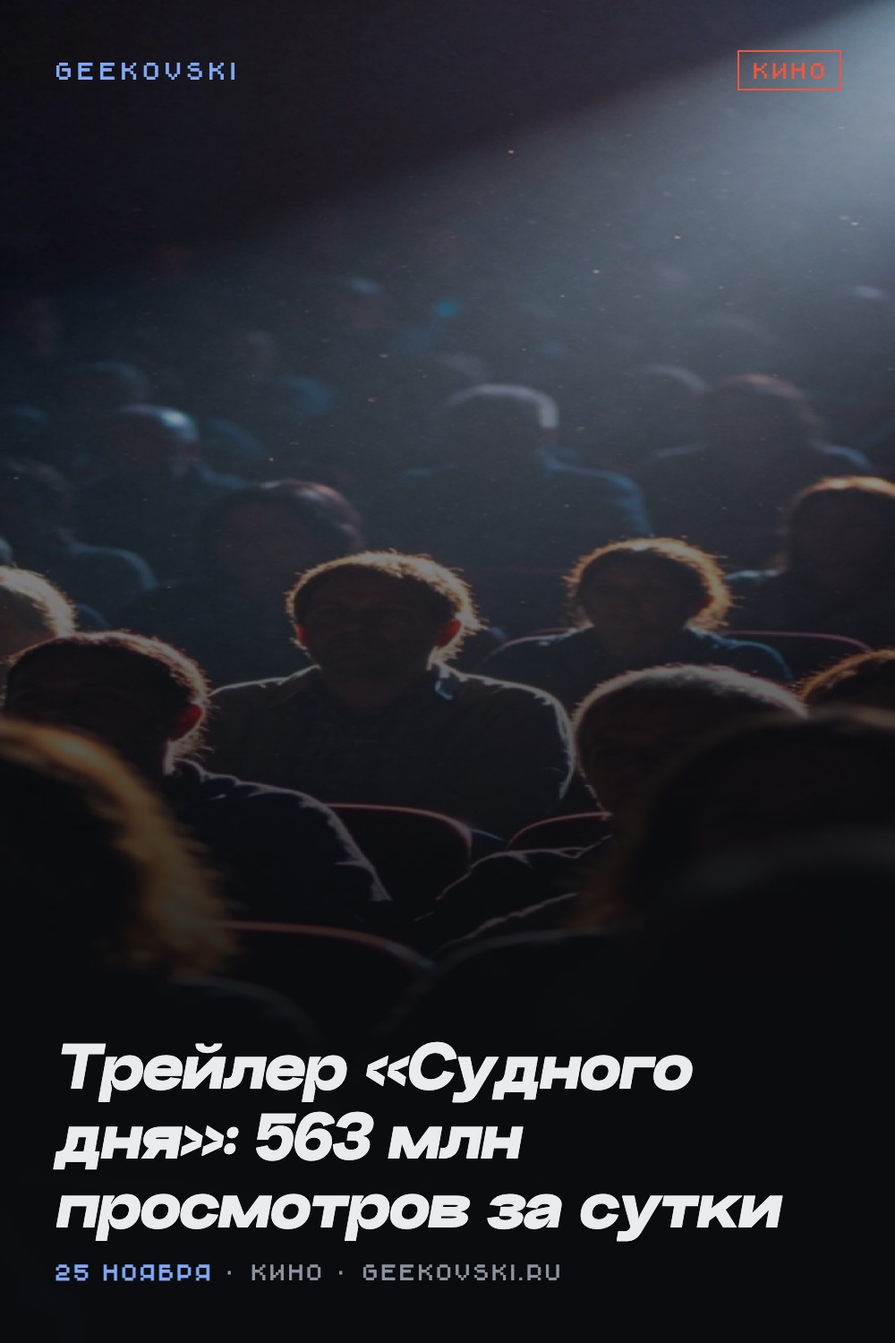
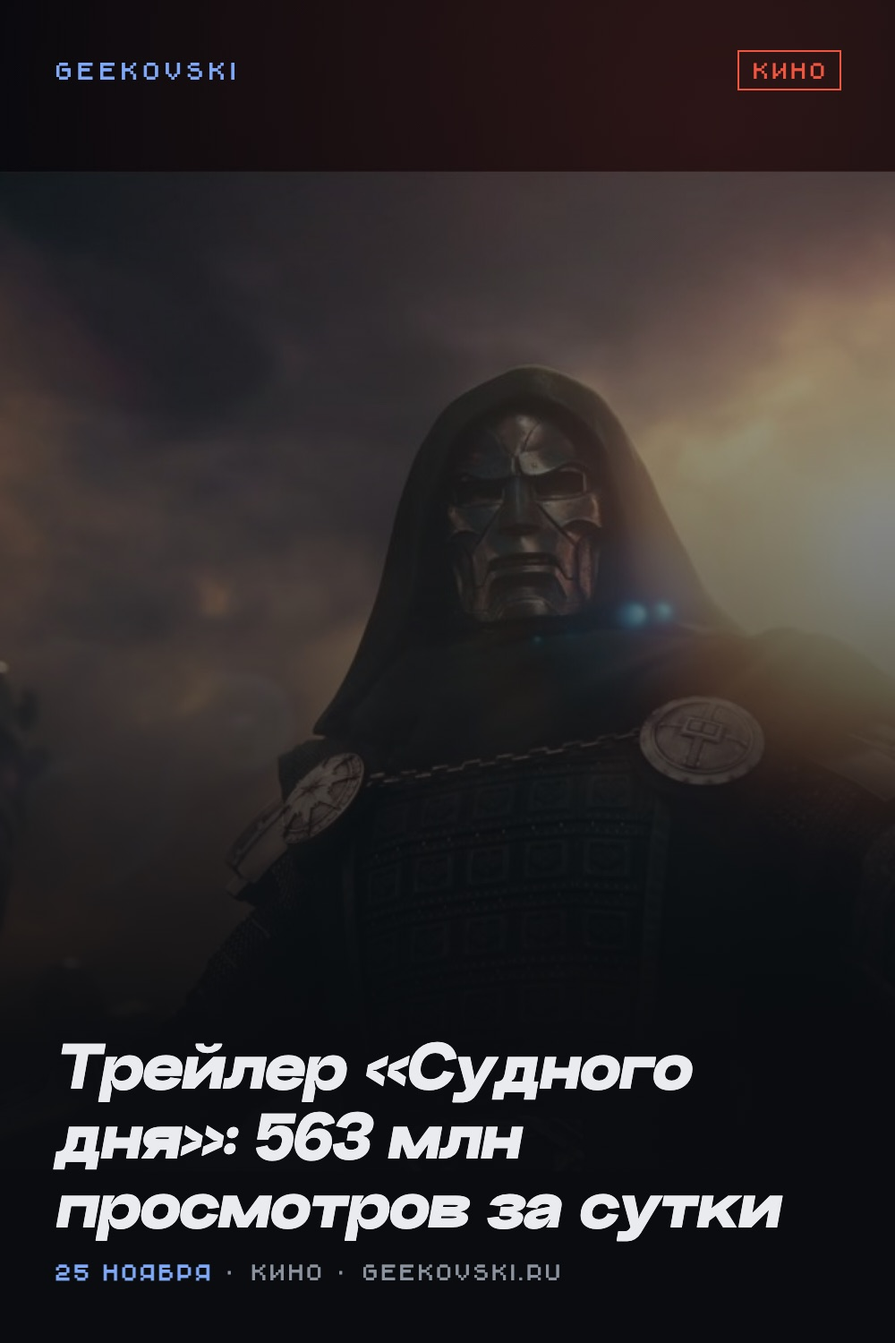
post: реальные кадры трейлера «Судного дня» вместо стоковых, новая обложка и пин

diff --git a/docs/2026-11-25-1500-sudnyj-den-trejler-rekord.html b/docs/2026-11-25-1500-sudnyj-den-trejler-rekord.html
@@ -85,7 +85,7 @@ _tmr.push({id: "3816456", type: "pageView", start: (new Date()).getTime()});
 </script>
 <noscript><div><img src="https://top-fwz1.mail.ru/counter?id=3816456;js=na" style="position:absolute;left:-9999px;" alt="Top.Mail.Ru" /></div></noscript>
 <!-- /Top.Mail.Ru counter -->
-<script type="application/ld+json">{"@context":"https://schema.org","@graph":[{"@type":"Organization","@id":"https://geekovski.ru/#organization","name":"GEEKOVSKI","url":"https://geekovski.ru/","description":"Технологии, игры и кино без маркетингового сиропа","sameAs":["https://vk.com/geekovskiread"],"logo":{"@type":"ImageObject","url":"https://geekovski.ru/assets/img/icon-512.png","width":512,"height":512}},{"@type":"WebSite","@id":"https://geekovski.ru/#website","url":"https://geekovski.ru/","name":"GEEKOVSKI","description":"Технологии, игры и кино без маркетингового сиропа","inLanguage":"ru-RU","publisher":{"@id":"https://geekovski.ru/#organization"}},{"@type":"NewsArticle","@id":"https://geekovski.ru/2026-11-25-1500-sudnyj-den-trejler-rekord.html#article","headline":"Трейлер «Судного дня»: 563 млн просмотров за сутки","description":"Финальный трейлер «Мстителей: Судного дня» за первые сутки собрал 563 млн просмотров — это рекорд Disney и второе место в истории кинотрейлеров после «Человека-паука: Совершенно новый день». Предпродажи добрались до $50 млн за три месяца до премьеры, а 18 декабря фильм выходит в один день с «Дюной: Часть 3».","datePublished":"2026-11-25T15:00:00+03:00","dateModified":"2026-11-25T15:00:00+03:00","inLanguage":"ru-RU","mainEntityOfPage":{"@type":"WebPage","@id":"https://geekovski.ru/2026-11-25-1500-sudnyj-den-trejler-rekord.html"},"author":{"@id":"https://geekovski.ru/#organization"},"publisher":{"@id":"https://geekovski.ru/#organization"},"isAccessibleForFree":true,"articleSection":"Кино","keywords":["Кино","GEEKOVSKI"],"wordCount":1193,"isPartOf":{"@id":"https://geekovski.ru/#website"},"image":[{"@type":"ImageObject","url":"https://geekovski.ru/assets/img/sudnyj-den-trejler-cover.jpg","width":1600,"height":900}],"citation":["https://deadline.com/2026/11/avengers-doomsday-final-trailer-viewership-record-1237232943/","https://www.euronews.com/2026/11/25/avengers-doomsday-final-trailer-breaks-records-to-become-second-most-viewed-of-all-time","https://cybersport.metaratings.ru/news/finalnyj-trejler-mstitelej-sudnyj-den-stal-samym-populyarnym-v-istorii-disney-674423/","https://www.thewrap.com/creative-content/movies/avengers-doomsday-presales-50-million-before-release/","https://www.thewrap.com/industry-news/box-office/avengers-doomsday-presales-first-day-infinity-vision/","https://www.boxofficepro.com/long-range-forecast-dune-part-3-aims-for-a-series-high-debut-as-it-opens-against-avengers-doomsday/","https://www.imdb.com/news/ni66127363/"],"abstract":"563 млн просмотров за 24 часа — рекорд Disney; прежний держал тизер того же фильма с 503 млн В истории кинотрейлеров выше только «Человек-паук: Совершенно новый день» — 718,6 млн за сутки Продано предпродаж на $50 млн, 70 % из них — премиум-форматы; домашний дебют прогнозируют на $340–369 млн"},{"@type":"BreadcrumbList","itemListElement":[{"@type":"ListItem","position":1,"name":"Блог","item":"https://geekovski.ru/"},{"@type":"ListItem","position":2,"name":"Категории","item":"https://geekovski.ru/categories/"},{"@type":"ListItem","position":3,"name":"Кино","item":"https://geekovski.ru/kino/"},{"@type":"ListItem","position":4,"name":"Трейлер «Судного дня»: 563 млн просмотров за сутки","item":"https://geekovski.ru/2026-11-25-1500-sudnyj-den-trejler-rekord.html"}]}]}</script>
+<script type="application/ld+json">{"@context":"https://schema.org","@graph":[{"@type":"Organization","@id":"https://geekovski.ru/#organization","name":"GEEKOVSKI","url":"https://geekovski.ru/","description":"Технологии, игры и кино без маркетингового сиропа","sameAs":["https://vk.com/geekovskiread"],"logo":{"@type":"ImageObject","url":"https://geekovski.ru/assets/img/icon-512.png","width":512,"height":512}},{"@type":"WebSite","@id":"https://geekovski.ru/#website","url":"https://geekovski.ru/","name":"GEEKOVSKI","description":"Технологии, игры и кино без маркетингового сиропа","inLanguage":"ru-RU","publisher":{"@id":"https://geekovski.ru/#organization"}},{"@type":"NewsArticle","@id":"https://geekovski.ru/2026-11-25-1500-sudnyj-den-trejler-rekord.html#article","headline":"Трейлер «Судного дня»: 563 млн просмотров за сутки","description":"Финальный трейлер «Мстителей: Судного дня» за первые сутки собрал 563 млн просмотров — это рекорд Disney и второе место в истории кинотрейлеров после «Человека-паука: Совершенно новый день». Предпродажи добрались до $50 млн за три месяца до премьеры, а 18 декабря фильм выходит в один день с «Дюной: Часть 3».","datePublished":"2026-11-25T15:00:00+03:00","dateModified":"2026-11-25T15:00:00+03:00","inLanguage":"ru-RU","mainEntityOfPage":{"@type":"WebPage","@id":"https://geekovski.ru/2026-11-25-1500-sudnyj-den-trejler-rekord.html"},"author":{"@id":"https://geekovski.ru/#organization"},"publisher":{"@id":"https://geekovski.ru/#organization"},"isAccessibleForFree":true,"articleSection":"Кино","keywords":["Кино","GEEKOVSKI"],"wordCount":1195,"isPartOf":{"@id":"https://geekovski.ru/#website"},"image":[{"@type":"ImageObject","url":"https://geekovski.ru/assets/img/sudnyj-den-trejler-cover.jpg","width":1600,"height":900}],"citation":["https://deadline.com/2026/11/avengers-doomsday-final-trailer-viewership-record-1237232943/","https://www.euronews.com/2026/11/25/avengers-doomsday-final-trailer-breaks-records-to-become-second-most-viewed-of-all-time","https://cybersport.metaratings.ru/news/finalnyj-trejler-mstitelej-sudnyj-den-stal-samym-populyarnym-v-istorii-disney-674423/","https://www.thewrap.com/creative-content/movies/avengers-doomsday-presales-50-million-before-release/","https://www.thewrap.com/industry-news/box-office/avengers-doomsday-presales-first-day-infinity-vision/","https://www.boxofficepro.com/long-range-forecast-dune-part-3-aims-for-a-series-high-debut-as-it-opens-against-avengers-doomsday/","https://www.imdb.com/news/ni66127363/"],"abstract":"563 млн просмотров за 24 часа — рекорд Disney; прежний держал тизер того же фильма с 503 млн В истории кинотрейлеров выше только «Человек-паук: Совершенно новый день» — 718,6 млн за сутки Продано предпродаж на $50 млн, 70 % из них — премиум-форматы; домашний дебют прогнозируют на $340–369 млн"},{"@type":"BreadcrumbList","itemListElement":[{"@type":"ListItem","position":1,"name":"Блог","item":"https://geekovski.ru/"},{"@type":"ListItem","position":2,"name":"Категории","item":"https://geekovski.ru/categories/"},{"@type":"ListItem","position":3,"name":"Кино","item":"https://geekovski.ru/kino/"},{"@type":"ListItem","position":4,"name":"Трейлер «Судного дня»: 563 млн просмотров за сутки","item":"https://geekovski.ru/2026-11-25-1500-sudnyj-den-trejler-rekord.html"}]}]}</script>
 
 </head>
 <body class="t-editorial">
@@ -122,7 +122,7 @@ _tmr.push({id: "3816456", type: "pageView", start: (new Date()).getTime()});
 <h2 id="section-bilety-uzhe-kupleny">Билеты уже куплены</h2>
 <p>Просмотры — вещь эфемерная, а вот предпродажи считают в долларах. О цифрах в сентябре рассказал старший вице-президент и финансовый директор Disney Хью Джонстон на конференции Goldman Sachs: за три месяца до релиза у «Судного дня» было $50 млн предпродаж. По данным источников TheWrap в Disney, за первые сутки кампании фильм собрал $16,5 млн в тысяче залов премиум-форматов, а на ScreenX первые сутки предпродаж были на 325 % выше, чем у «Человека-паука: Нового дня».</p>
 <p>Ключевая деталь: 70 % проданных билетов — премиум-форматы, помеченные меткой Infinity Vision. Это не технический стандарт, а маркетинговый ярлык, который Disney придумал специально под эту премьеру: IMAX на три недели отдан «Дюне: Часть 3» по давнему договору Warner с Дени Вильнёвом, и студии пришлось уводить фанатов в другие большие залы — Dolby, ScreenX и прочие. Судя по доле премиум-форматов в предпродажах, схема работает.</p>
-<figure class="post__fig"><img src="/assets/img/sudnyj-den-zal-imax.jpg" alt="" loading="lazy"></figure>
+<figure class="post__fig"><img src="/assets/img/sudnyj-den-kadr-shlem.jpg" alt="" loading="lazy"></figure>
 <h2 id="section-18-dekabrya-dyunsdey">18 декабря: «Дюнсдей»</h2>
 <p>Фильм выходит 18 декабря — в тот же день, что и «Дюна: Часть 3». Это не курьёз календаря, а главная интрига декабря: два блокбастера делят один уикенд и одни экраны.</p>
 <div class="table-wrap"><table><thead><tr><th style="text-align:left">Фильм (18 декабря)</th><th style="text-align:left">Прогноз домашнего дебюта</th></tr></thead><tbody><tr><td style="text-align:left">«Мстители: Судный день»</td><td style="text-align:left">$340–369 млн</td></tr><tr><td style="text-align:left">«Дюна: Часть 3»</td><td style="text-align:left">$85–100 млн</td></tr><tr><td style="text-align:left">Рекорд — «Человек-паук: Совершенно новый день» (2026)</td><td style="text-align:left">$360 млн</td></tr></tbody></table></div>
@@ -130,10 +130,10 @@ _tmr.push({id: "3816456", type: "pageView", start: (new Date()).getTime()});
 <h2 id="section-pochemu-marvel-eto-nuzhno">Почему Marvel это нужно</h2>
 <p>Последние три года у студии были неровными. «Дэдпул и Росомаха» в 2024-м собрал $1,33 млрд — рекорд для фильмов с рейтингом R. А вот «Громовержцы» и «Капитан Америка: Новый мир» недобрали, «Марвелы» провалились. Требовался фильм-событие, который вернёт доверие зала.</p>
 <p>Сначала эту роль сыграл «Человек-паук: Совершенно новый день»: $2 млрд за три недели, больше $2,4 млрд в итоге — третий результат в истории до поправки на инфляцию. На этой неделе он обойдёт «Пробуждение силы» и станет самым кассовым фильмом в истории США до инфляции. «Судный день» идёт следом и с более громкой кампанией: Дауни-младший в роли Доктора Дума, Крис Эванс снова Стив Роджерс, плюс Люди Икс и Фантастическая четвёрка в одном кадре — тот тип события, на который зритель ходит не за сюжетом, а за встречей.</p>
-<figure class="post__fig"><img src="/assets/img/sudnyj-den-premera.jpg" alt="" loading="lazy"></figure>
+<figure class="post__fig"><img src="/assets/img/sudnyj-den-kadr-geroy.jpg" alt="" loading="lazy"></figure>
 <h2 id="section-gde-podvoh">Где подвох</h2>
 <ul><li><strong>Просмотры не конвертируются в билеты автоматически.</strong> Euronews прямо оговаривается: онлайн-метрики сами по себе не определяют кассу. Сравнение с тизером «Дэдпула и Росомахи» тоже не идеальное — в те 365 млн входит телеэфир Супербоула, то есть аудитория, которая смотрела ролик не по своей воле.</li><li><strong>563 млн — это не 563 миллиона человек.</strong> Это сумма показов по платформам, где один и тот же пользователь мог посмотреть трейлер несколько раз, а часть показов пришла с аккаунтов изданий и партнёров.</li><li><strong>Экранов меньше, чем кажется.</strong> В 2019-м мультиплексы отдавали «Финалу» почти все залы. Сейчас часть IMAX занята «Дюной» на три недели, и делить прокат придётся с ней же.</li><li><strong>У кампании появился эмоциональный слой, который не считается в просмотрах.</strong> Патрик Стюарт умер 28 октября в 86 лет; «Судный день» — его последняя роль в кино и девятое появление в роли профессора Ксавье, начиная с «Людей Икс» 2000 года. Энтони Руссо рассказал Entertainment Weekly, что актёр работал на площадке, уже превозмогая проблемы со здоровьем, а Кевин Файги говорил, что студия думает, как достойно почтить память друга. Часть зрителей пойдёт в зал в том числе за этим.</li><li><strong>Российского проката нет, и дата в СНГ — не то же самое.</strong> О российской премьере не сообщалось: Disney официально не выпускает свои фильмы в России с 2022 года. По данным Cybersport, в прокат стран СНГ картина выйдет 7 января 2027 года — на три недели позже мировой премьеры.</li></ul>
-<figure class="post__fig"><img src="/assets/img/sudnyj-den-proektor.jpg" alt="" loading="lazy"></figure>
+<figure class="post__fig"><img src="/assets/img/sudnyj-den-kadr-profil.jpg" alt="" loading="lazy"></figure>
 <h2 id="section-tri-vyvoda">Три вывода</h2>
 <ol><li><strong>Маркетинг Marvel снова в форме.</strong> Тизер и финальный трейлер заняли первое и второе места по просмотрам в истории Disney, а кампания в сумме дала 3,3 млрд показов. Это лучший результат для супергероики со времён «Финала».</li><li><strong>18 декабря — настоящая проверка.</strong> Рекорд просмотров у «Нового дня» и его $360 млн на старте задали планку, но «Дюна» на тех же экранах может съесть часть сеансов. Как распределятся залы — такой и будет касса.</li><li><strong>Смотреть надо на второй уикенд.</strong> У фильмов-событий с такой кампанией первый уикенд почти предопределён, а вот обвал на второй неделе покажет, пришёл зритель за встречей старых героев или за кино.</li></ol><nav class="post__more" aria-label="Другие материалы по теме"><h2>Читайте также</h2><div class="morecards"><article class="card card-- cat-kino">
   <div class="card__cover"><img src="/assets/img/spilberg-vesttern-batt-1900.jpg" alt="" width="1600" height="900" fetchpriority="high"></div>

diff --git a/content/posts/2026-11-25-1500-sudnyj-den-trejler-rekord.md b/content/posts/2026-11-25-1500-sudnyj-den-trejler-rekord.md
@@ -7,7 +7,7 @@ summary: Финальный трейлер «Мстителей: Судного 
 tldr: 563 млн просмотров за 24 часа — рекорд Disney; прежний держал тизер того же фильма с 503 млн | В истории кинотрейлеров выше только «Человек-паук: Совершенно новый день» — 718,6 млн за сутки | Продано предпродаж на $50 млн, 70 % из них — премиум-форматы; домашний дебют прогнозируют на $340–369 млн
 cover: /assets/img/sudnyj-den-trejler-cover.jpg
 pin: /assets/img/2026-11-25-1500-sudnyj-den-trejler-rekord-pin.jpg
-credit: иллюстрации GEEKOVSKI.
+credit: Кадры: Marvel Studios — финальный трейлер «Мстителей: Судного дня».
 sources: Deadline — рекорд просмотров | https://deadline.com/2026/11/avengers-doomsday-final-trailer-viewership-record-1237232943/; Euronews — второй результат в истории, последняя роль Патрика Стюарта | https://www.euronews.com/2026/11/25/avengers-doomsday-final-trailer-breaks-records-to-become-second-most-viewed-of-all-time; Cybersport — рекорд, метрики соцсетей и дата проката в СНГ | https://cybersport.metaratings.ru/news/finalnyj-trejler-mstitelej-sudnyj-den-stal-samym-populyarnym-v-istorii-disney-674423/; TheWrap — $50 млн предпродаж за три месяца до премьеры | https://www.thewrap.com/creative-content/movies/avengers-doomsday-presales-50-million-before-release/; TheWrap — $16,5 млн за первые сутки в премиум-форматах | https://www.thewrap.com/industry-news/box-office/avengers-doomsday-presales-first-day-infinity-vision/; Boxoffice Pro — прогноз «Дюны: Часть 3» | https://www.boxofficepro.com/long-range-forecast-dune-part-3-aims-for-a-series-high-debut-as-it-opens-against-avengers-doomsday/; IMDb — сводка рекорда | https://www.imdb.com/news/ni66127363/
 ---
 
@@ -43,7 +43,7 @@ sources: Deadline — рекорд просмотров | https://deadline.com/2
 
 Ключевая деталь: 70 % проданных билетов — премиум-форматы, помеченные меткой Infinity Vision. Это не технический стандарт, а маркетинговый ярлык, который Disney придумал специально под эту премьеру: IMAX на три недели отдан «Дюне: Часть 3» по давнему договору Warner с Дени Вильнёвом, и студии пришлось уводить фанатов в другие большие залы — Dolby, ScreenX и прочие. Судя по доле премиум-форматов в предпродажах, схема работает.
 
-![](/assets/img/sudnyj-den-zal-imax.jpg)
+![](/assets/img/sudnyj-den-kadr-shlem.jpg)
 
 ## 18 декабря: «Дюнсдей»
 
@@ -63,7 +63,7 @@ sources: Deadline — рекорд просмотров | https://deadline.com/2
 
 Сначала эту роль сыграл «Человек-паук: Совершенно новый день»: $2 млрд за три недели, больше $2,4 млрд в итоге — третий результат в истории до поправки на инфляцию. На этой неделе он обойдёт «Пробуждение силы» и станет самым кассовым фильмом в истории США до инфляции. «Судный день» идёт следом и с более громкой кампанией: Дауни-младший в роли Доктора Дума, Крис Эванс снова Стив Роджерс, плюс Люди Икс и Фантастическая четвёрка в одном кадре — тот тип события, на который зритель ходит не за сюжетом, а за встречей.
 
-![](/assets/img/sudnyj-den-premera.jpg)
+![](/assets/img/sudnyj-den-kadr-geroy.jpg)
 
 ## Где подвох
 
@@ -73,7 +73,7 @@ sources: Deadline — рекорд просмотров | https://deadline.com/2
 - **У кампании появился эмоциональный слой, который не считается в просмотрах.** Патрик Стюарт умер 28 октября в 86 лет; «Судный день» — его последняя роль в кино и девятое появление в роли профессора Ксавье, начиная с «Людей Икс» 2000 года. Энтони Руссо рассказал Entertainment Weekly, что актёр работал на площадке, уже превозмогая проблемы со здоровьем, а Кевин Файги говорил, что студия думает, как достойно почтить память друга. Часть зрителей пойдёт в зал в том числе за этим.
 - **Российского проката нет, и дата в СНГ — не то же самое.** О российской премьере не сообщалось: Disney официально не выпускает свои фильмы в России с 2022 года. По данным Cybersport, в прокат стран СНГ картина выйдет 7 января 2027 года — на три недели позже мировой премьеры.
 
-![](/assets/img/sudnyj-den-proektor.jpg)
+![](/assets/img/sudnyj-den-kadr-profil.jpg)
 
 ## Три вывода
 
